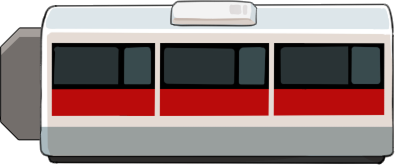
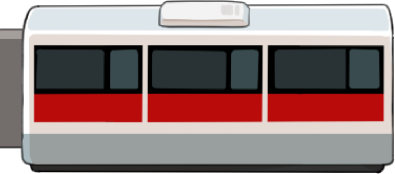
wip train scene

Changed region(s): [[0.0, 0.0, 1.0, 1.0], [0.9722, 0.0303, 1.0, 0.1212]]

diff --git a/src/game/scenes/KuasaScene.ts b/src/game/scenes/KuasaScene.ts
@@ -1,4 +1,4 @@
-import { Scene } from "phaser";
+import { GameObjects, Scene } from "phaser";
 import { Utils } from "./Utils";
 import { KUASA_LEVEL_DATA } from "../KuasaLevelData";
 
@@ -42,6 +42,11 @@ export class KuasaScene extends Scene {
             zones: [],
         };
 
+    train1: GameObjects.Container;
+    train2: GameObjects.Container;
+    track1: GameObjects.Image;
+    track2: GameObjects.Image;
+
     constructor() {
         super("KuasaScene");
     }
@@ -83,34 +88,38 @@ export class KuasaScene extends Scene {
             this.scene.start("MainMenu");
         });
 
-        const beamContaier = this.add.container(0, 0).setName('beamContainer').setDepth(3);
+        const beamContaier = this.add.container(0, 0).setName("beamContainer").setDepth(3);
         beamContaier.setSize(1000, 200);
-        const beam1 = this.add.image(0, 0, 'beam').setOrigin(0.5);
-        const beam2 = this.add.image(beam1.width, 0, 'beam').setOrigin(0.5);
-        const beam3 = this.add.image(beam2.width + beam2.x, 0, 'beam').setOrigin(0.5);
-        const beam4 = this.add.image(beam3.width + beam3.x, 0, 'beam').setOrigin(0.5);
-        const beam5 = this.add.image(beam4.width + beam4.x, 0, 'beam').setOrigin(0.5);
-        beamContaier.add([beam1, beam2, beam3, beam4, beam5])
+        const beam1 = this.add.image(0, 0, "beam").setOrigin(0.5);
+        const beam2 = this.add.image(beam1.width, 0, "beam").setOrigin(0.5);
+        const beam3 = this.add.image(beam2.width + beam2.x, 0, "beam").setOrigin(0.5);
+        const beam4 = this.add.image(beam3.width + beam3.x, 0, "beam").setOrigin(0.5);
+        const beam5 = this.add.image(beam4.width + beam4.x, 0, "beam").setOrigin(0.5);
+        beamContaier.add([beam1, beam2, beam3, beam4, beam5]);
         Phaser.Display.Align.In.TopCenter(beamContaier, this.bgAlignZone, -this.cameras.main.width / 2, -130);
 
         //? lives systems
         this.createLives();
+        this.setupLevel();
     }
 
-    // createTrainLevel() {
-    //     const train1Container = this.add.container();
-    //     const pillar1 = this.add.image(0, 0, "train_line").setOrigin(0.5).setDepth(2);
-    //     const track1 = this.add.image(0, 0, "train_track").setOrigin(0.5).setDepth(3).setScale(1.1, 1);
+    private setupLevel() {
+        //? setup train
+        this.train1 = this.createTrain(300, 695, 3).setScale(0.8); // 3 compartments
+        this.train1.setName('train1');
 
-    //     Phaser.Display.Align.In.BottomCenter(pillar1, this.bgAlignZone, 0, 160);
-    //     Phaser.Display.Align.In.TopCenter(track1, pillar1, 0, 100);
-    // }
+        this.train2 = this.createTrain(300, 392, 3).setScale(0.8); // 3 compartments
+        this.train2.setName('train2');
 
-    cleanupLevel() {
+        //? setup track
+        this.track1 = this.add.image(0, 0, 'train_track').setOrigin(0.5).setDepth(9);
+        Phaser.Display.Align.In.Center(this.track1, this.bgAlignZone, 0, 300)
 
+        this.track2 = this.add.image(0, 0, 'train_track').setOrigin(0.5).setDepth(9);
+        Phaser.Display.Align.In.Center(this.track2, this.bgAlignZone, 0, 0)
     }
 
-    private setupLevel() { }
+    cleanupLevel() { }
 
     private createLives() {
         this.lives = [];
@@ -131,6 +140,27 @@ export class KuasaScene extends Scene {
                 empty: emptyHeart,
             });
         }
+    }
+
+    private createTrain(x: number, y: number, midCount: number = 1) {
+        const train = this.add.container(x, y).setDepth(10);
+
+        let offsetX = 0;
+        const left = this.add.image(offsetX - 36, 0, "left_train").setOrigin(0.5, 0.5);
+        offsetX += left.width;
+        train.add(left);
+
+        for (let i = 0; i < midCount; i++) {
+            const mid = this.add.image(offsetX, 0, "mid_train").setOrigin(0.5, 0.5);
+            offsetX += mid.width - 1;
+            train.add(mid);
+            mid.setDepth(-10);
+        }
+
+        const right = this.add.image(offsetX - 22, 0, "right_train").setOrigin(0.5, 0.5);
+        train.add(right);
+        train.setSize(offsetX + right.width, left.height);
+        return train;
     }
 
     private loseLife() {
@@ -202,7 +232,7 @@ export class KuasaScene extends Scene {
         this.registry.set("completedLevels", completed + 1);
     }
 
-    private track<T extends Phaser.GameObjects.GameObject>(obj: T, type: keyof typeof this.levelObjects): T {
+    private trackObject<T extends Phaser.GameObjects.GameObject>(obj: T, type: keyof typeof this.levelObjects): T {
         this.levelObjects[type].push(obj as any);
         return obj;
     }

diff --git a/src/game/scenes/Preloader.ts b/src/game/scenes/Preloader.ts
@@ -97,8 +97,6 @@ export class Preloader extends Scene {
             'left_train',
             'mid_train',
             'right_train',
-            'train_track_back',
-            'train_track_font',
             'kuasa-level-title-bg',
             'train_bg',
             'train_line',
